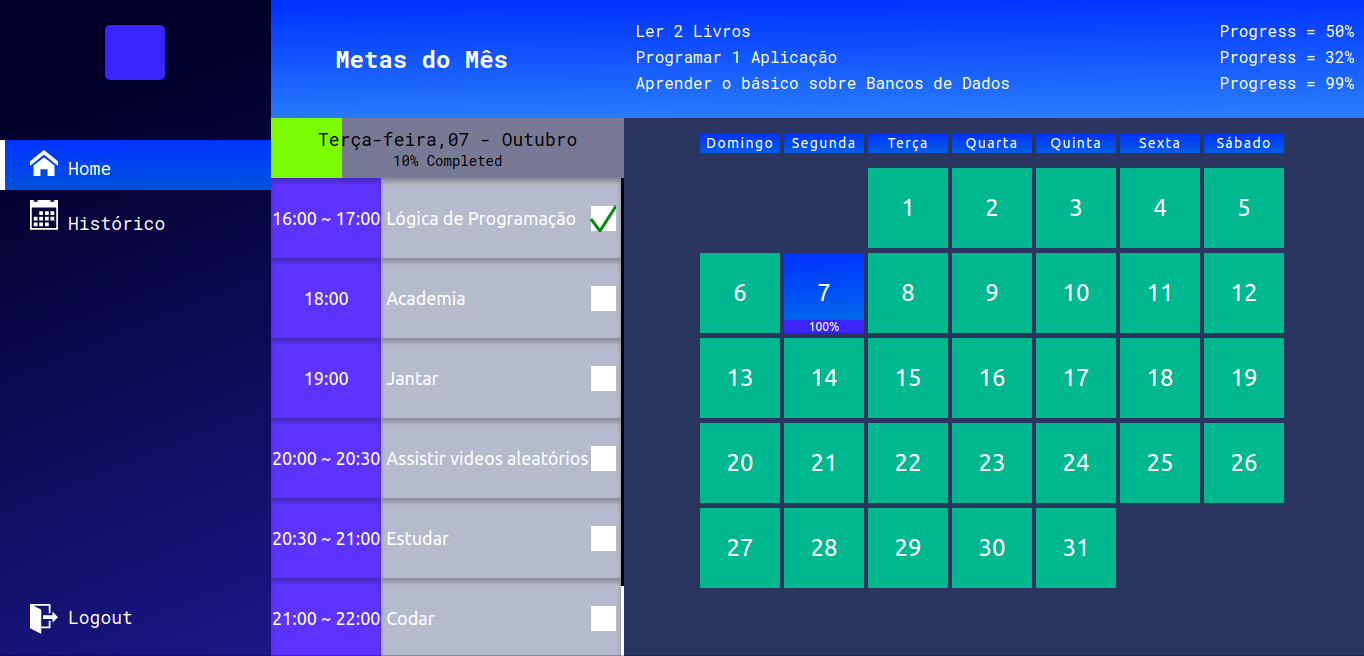
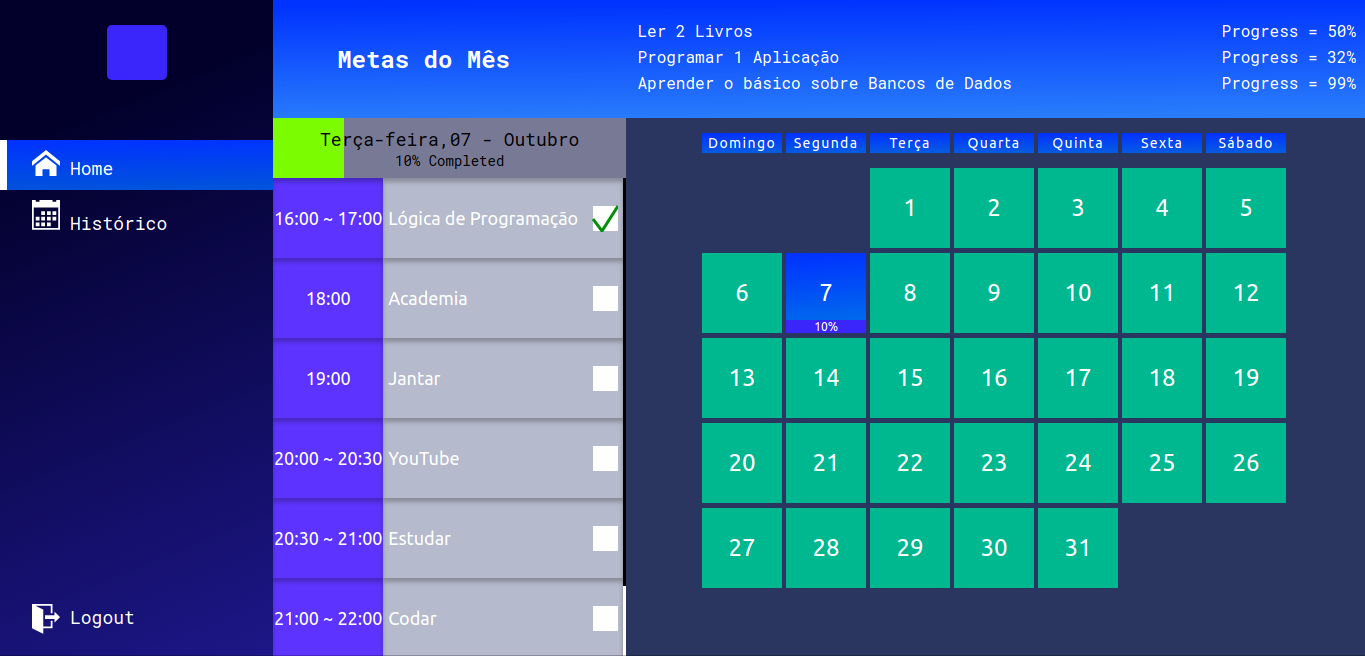
added new description in readme, and added new click functions

diff --git a/js/modules/handleClick.js b/js/modules/handleClick.js
@@ -1,32 +1,64 @@
 export default function handleClick() {
   const daysBtn = document.querySelectorAll('.days li');
   const closeBtn = document.querySelectorAll('.close');
+  const menuBtn = document.querySelector('.btnMenu');
+  const menuMobile = document.querySelector('.menuMobile');
+  const menuBack = document.querySelector('.backIcon');
+  const calendarMobile = document.querySelectorAll('.calendarMobile');
+  const sectionToday = document.querySelector('.today');
+  const sectionCalendar = document.querySelector('.calendar');
   const modalDay = document.querySelector('.modal-day-container');
   const modalMonth = document.querySelector('.modal-month');
-  const historyMenu = document.querySelector('.menu .hist')
+  const historyMenu = document.querySelector('.menu .hist');
   const eventArray = ['click', 'touchstart'];
   
-  function addActive(modal) {
-    modal.classList.add('active');
+  function addClass(element, classes) {
+    element.classList.add(classes);
   }
   
-  function removeActive() {
-    modalDay.classList.remove('active');
-    modalMonth.classList.remove('active');
+  function removeClass(element, classes) {
+    element.classList.remove(classes);
   }
   
   
   eventArray.forEach(evento => {
+
     daysBtn.forEach(item => {
       item.addEventListener(evento, () => {
-        addActive(modalDay);
+        addClass(modalDay, 'active');
       });
-    })
+    });
+
     historyMenu.addEventListener(evento, () => {
-      addActive(modalMonth);
-    })
-    closeBtn.forEach((btn => {
-      btn.addEventListener(evento, removeActive);
-    }))
+      addClass(modalMonth, 'active');
+    });
+
+    menuBtn.addEventListener(evento, () => {
+      addClass(menuMobile, 'activeMobile')
+    });
+
+    menuBack.addEventListener(evento, () => {
+      removeClass(menuMobile, 'activeMobile')
+    });
+    calendarMobile[0].addEventListener(evento, () => {
+        addClass(sectionToday, 'todayOff');
+        addClass(calendarMobile[0], 'backBtn');
+        removeClass(sectionCalendar, 'calendarOff');
+        removeClass(calendarMobile[1], 'backBtn');
+    });
+    calendarMobile[1].addEventListener(evento, () => {
+      removeClass(sectionToday, 'todayOff');
+      addClass(calendarMobile[1], 'backBtn');
+      addClass(sectionCalendar, 'calendarOff');
+      removeClass(calendarMobile[0], 'backBtn');
+  })
+
+    closeBtn[0].addEventListener(evento, () => {
+      removeClass(modalDay, 'active')
+    });
+
+    closeBtn[1].addEventListener(evento, () => {
+      removeClass(modalMonth, 'active')
+    });
   })
 }

diff --git a/css/dashboard.css b/css/dashboard.css
@@ -153,31 +153,39 @@ aside ul li a.logout::before {
     transform: none;
   }
 
-  .backIcon::before {
-    content: '';
+  .backIcon {
     display: block;
-    height: 15px;
-    width: 3px;
-    background-color: #ffffff;
-    transform: rotate(45deg);
+    height: 30px;
+    width: 30px;
     position: absolute;
     right: 20px;
     top: 10px;
     cursor: pointer;
+    z-index: 2;
+  }
+
+  .backIcon::before {
+    content: '';
+    display: block;
+    height: 20px;
+    width: 3px;
+    background-color: #ffffff;
+    transform: rotate(45deg);
+    position: absolute;
+    right: 15px;
     z-index: 1;
   }
 
   .backIcon::after {
     content: '';
     display: block;
-    height: 15px;
+    height: 20px;
     width: 3px;
     background-color: #ffffff;
     transform: rotate(-45deg);
     position: absolute;
-    right: 20px;
-    top: 19px;
-    cursor: pointer;
+    right: 15px;
+    top: 13px;
     z-index: 1;
   }
 
@@ -185,5 +193,6 @@ aside ul li a.logout::before {
 
 .activeMobile {
   display: flex !important;
+  z-index: 2;
 }
 /* END Configs */

diff --git a/index.html b/index.html
@@ -49,7 +49,7 @@
               <li class="complete">Lógica de Programação</li>
               <li>Academia</li>
               <li>Jantar</li>
-              <li>Assistir videos aleatórios</li>
+              <li>YouTube</li>
               <li>Estudar</li>
               <li>Codar</li>
               <li>Dormir</li>
@@ -103,7 +103,7 @@
         </section>
       </div>
     </div>
-    <aside class="menuMobile "> <!--need add activeMobile class on mobile screen !-->
+    <aside class="menuMobile"> <!--need add activeMobile class on mobile screen !-->
       <span class="backIcon"></span>
       <ul>
         <li class="menu first activeMenu"><a href="./index.html" class="home">Home</a></li>

diff --git a/css/main.css b/css/main.css
@@ -146,7 +146,6 @@
   display: flex;
   flex-direction: row;
   flex: 0 0 0;
-  width: 100%;
   height: 100%;
 }
 
@@ -212,7 +211,7 @@
 }
 
 .dayStatus::after{
-  content: '100%';
+  content: '10%';
   display: flex;
   flex-direction: row;
   align-items: center;
@@ -286,7 +285,7 @@
   .sub-container .today {
     width: 100%;
     flex-grow: 1;
-    /* height: calc(100% - 150px); */
+    height: calc(100vh - 200px);
   }
 
   .sub-container .horary li {
@@ -300,12 +299,6 @@
   .sub-container .calendar {
     position: absolute;
     width: 100%;
-  }
-
-  .calendar ul {
-    position: relative;
-    left: 50%;
-    transform: translateX(-50%);
   }
 
   .calendar .week li {

diff --git a/css/header.css b/css/header.css
@@ -67,6 +67,10 @@ header .btnMenu {
     cursor: pointer;
   }
 
+  header .btnMenu:focus {
+    outline: 0;
+  }
+
   header .btnMenu::after {
     content: '';
     display: block;

diff --git a/css/modal.css b/css/modal.css
@@ -126,7 +126,7 @@ button.bigPlus {
   width: 100%;
   height: 100vh;
   background: rgba(0, 0, 0, 0.5);
-  z-index: 1;
+  z-index: 99;
 }
 
 .month-container {

diff --git a/README.md b/README.md
@@ -1,5 +1,16 @@
 # Diary Control
 ## Esta é uma ferramenta em desenvolvimento, que basicamente consiste em fazer um controle das atividades diárias.
 
-- Em breve novas funções e um novo design será adicionado.
+### Tecnologias Usadas:
+- HTML5
+- CSS3
+- JavaScript
+
+### Como usar :
+- Para testar, nenhuma instalação adicional será necessária.
+- Apenas abra o Index.HTML
+
+### Em breve novas funções e um novo design será adicionado.
+
+### Homepage :
 ![Homepage](./img/Homepage.png)
